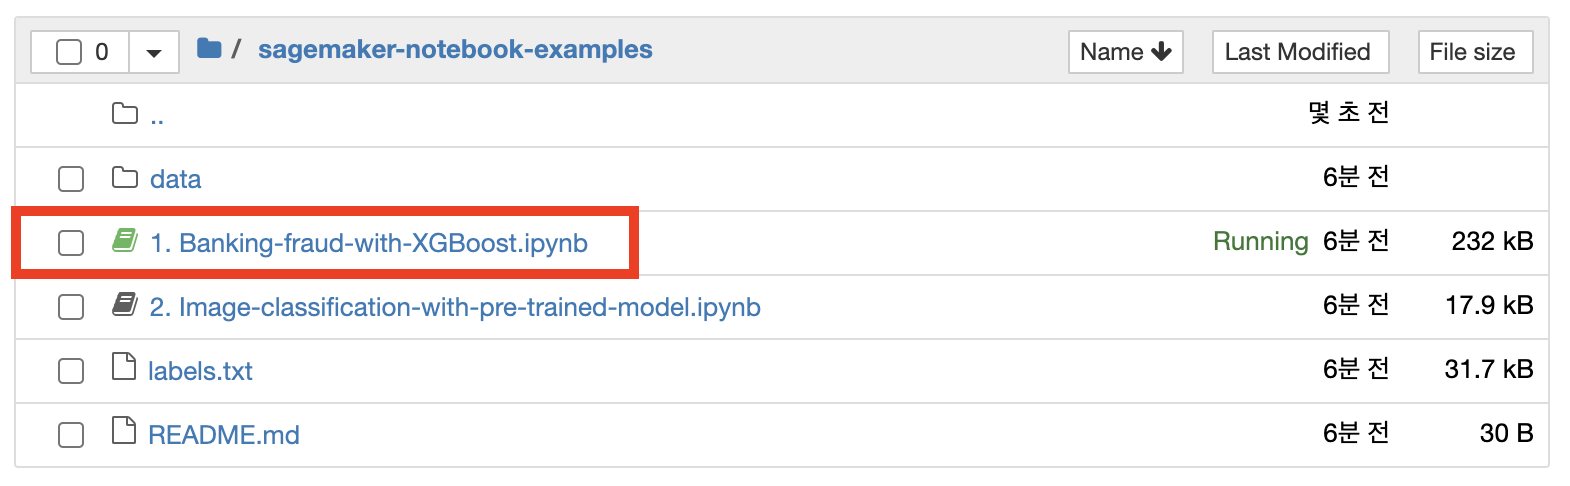
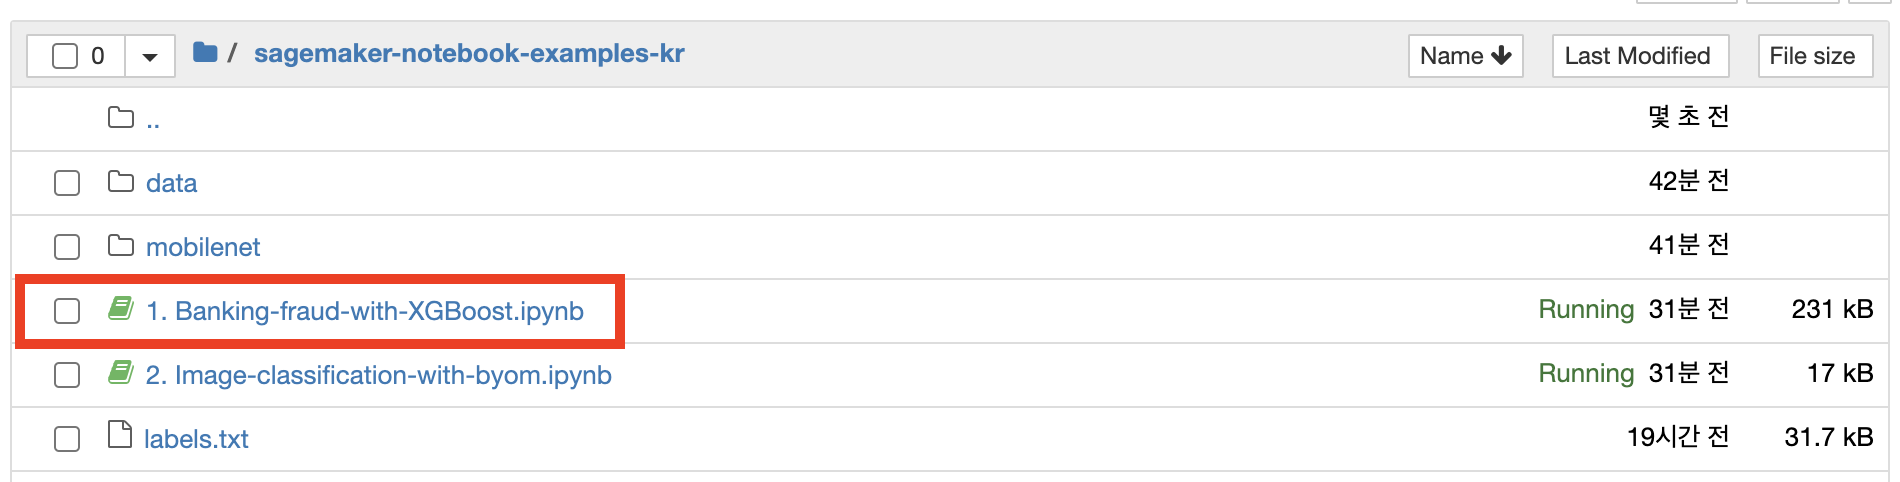
edit screenshot

Changed region(s): [[0.0, 0.2178, 0.9987, 0.9959], [0.0, 0.0, 0.9987, 0.1867]]

diff --git a/content/20_notebook/22_byom.ko.md b/content/20_notebook/22_byom.ko.md
@@ -10,7 +10,7 @@ pre: "<b>2-2. </b>"
 
 ## Jupyter notebook 실행하기
 
-1. **sagemaker-notebook-examples-kr 폴더** > **2. Image-classification-with-pre-trained-model.ipynb**을 클릭합니다.
+1. **sagemaker-notebook-examples-kr 폴더** > **2. Image-classification-with-byom.ipynb**을 클릭합니다.
 ![image](/images/20_notebook/20_pre-trained/pt-notebook.png)
 
 2. **S3 bucket 이름**을 S3를 생성할 때 사용하셨던 `sagemaker-workshop-성함`으로 변경합니다.
@@ -20,6 +20,7 @@ pre: "<b>2-2. </b>"
 ![image](/images/20_notebook/20_pre-trained/result.png)
 
 4. Hosting이 완료되면 추론을 통해 모델의 성능을 확인합니다.
+![image](/images/20_notebook/20_pre-trained/hosting.png)
 
 5. 마지막 셀의 주석처리를 제거하여 **Endpoint를 삭제**합니다.
 ![image](/images/20_notebook/20_pre-trained/delete-endpoint.png)
